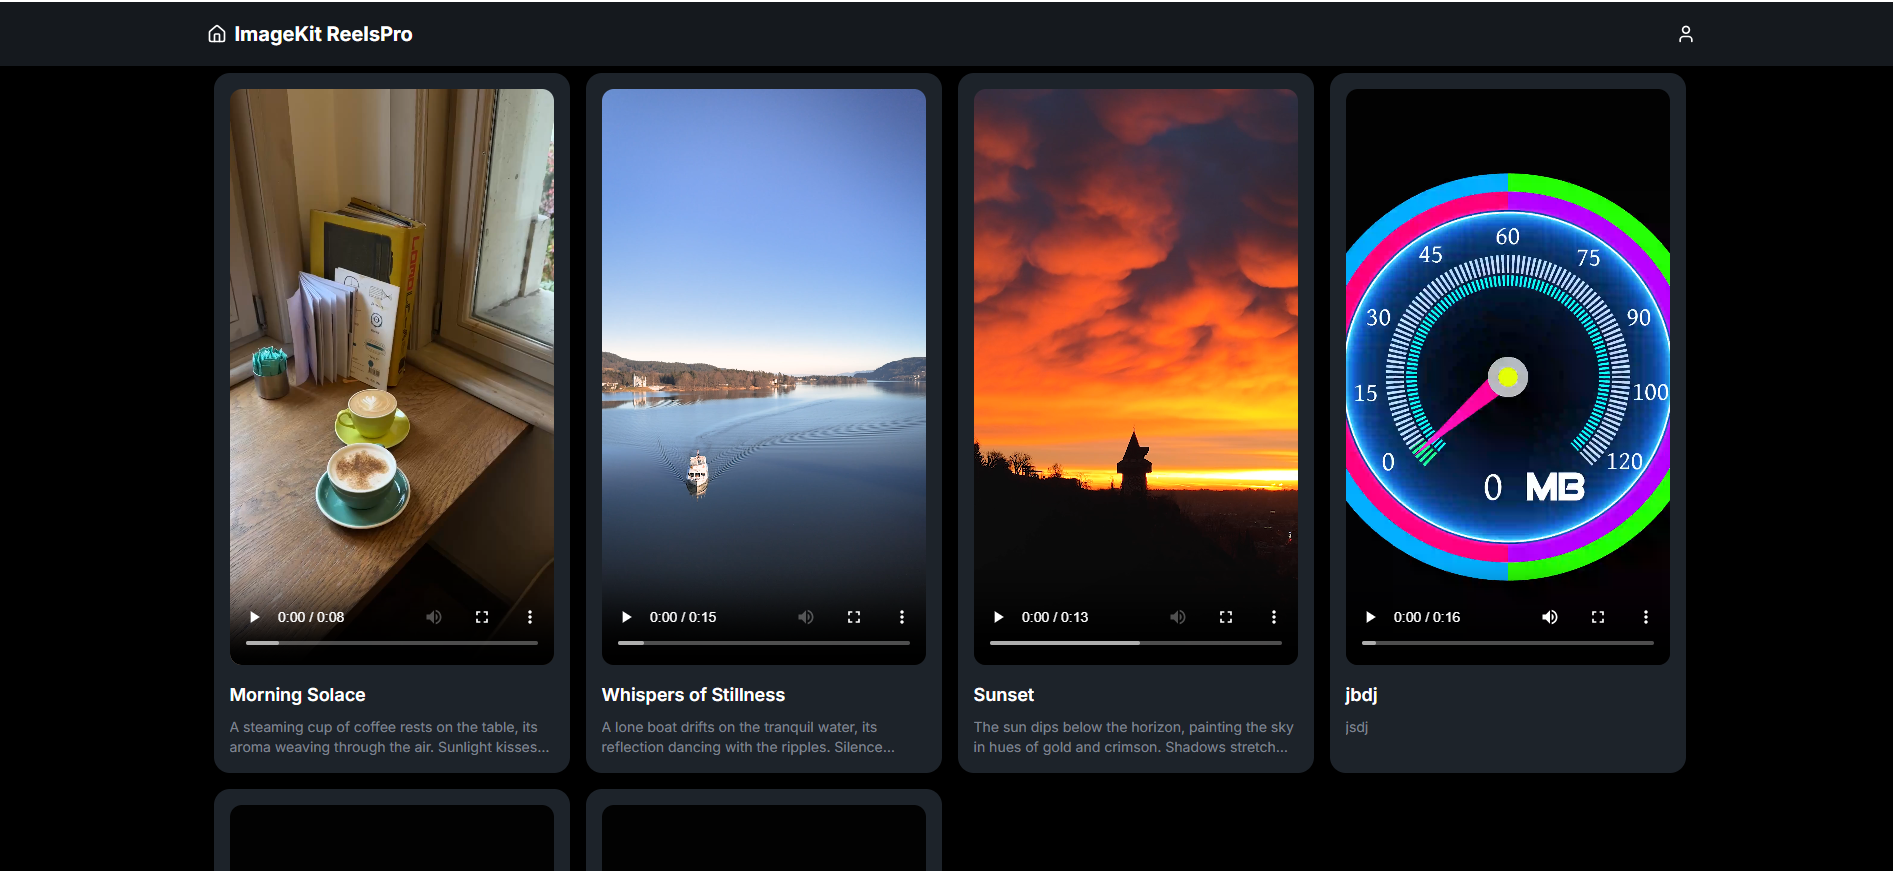
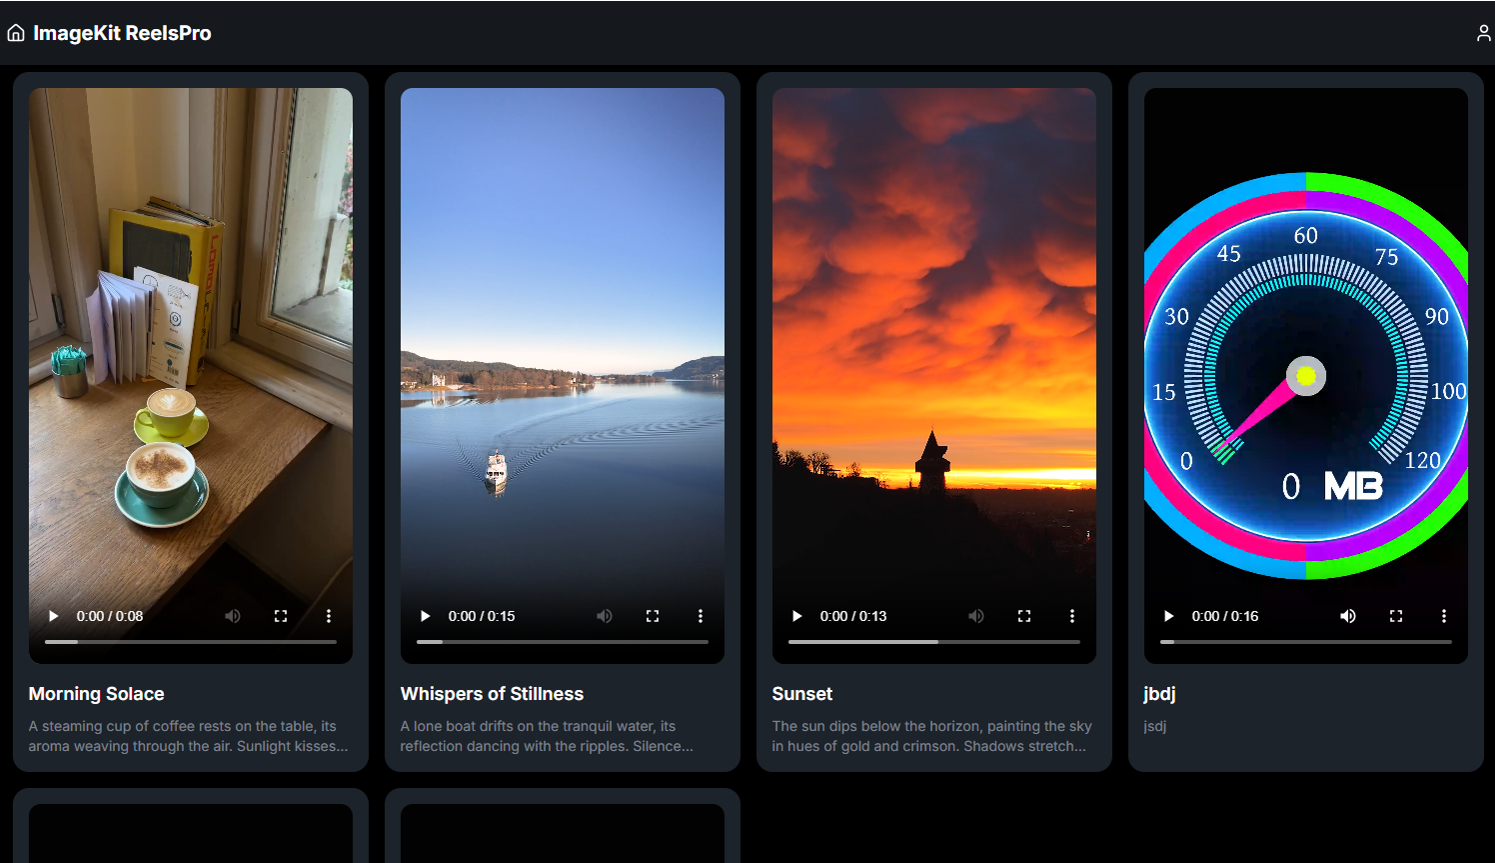
Change UI of  Project Page

diff --git a/src/app/projects/page.tsx b/src/app/projects/page.tsx
@@ -33,10 +33,10 @@ function Project() {
                 key={project.title}
                 delay={BLUR_FADE_DELAY * 12 + id * 0.05}
               >
-                <ShineBorder
+                {/* <ShineBorder
                   className="relative flex h-full w-full flex-col items-center justify-center overflow-hidden rounded-lg border bg-background md:shadow-xl"
                   color={["#F3FC91", "#3DDFFC", "#FF0095"]}
-                >
+                > */}
                   <ProjectCard
                     href={project.href}
                     title={project.title}
@@ -46,7 +46,7 @@ function Project() {
                     image={project.image}
                     links={project.links}
                   />
-                </ShineBorder>
+                {/* </ShineBorder> */}
               </BlurFade>
             ))}
           </div>

diff --git a/src/data/resume_contents.tsx b/src/data/resume_contents.tsx
@@ -137,7 +137,7 @@ export const DATA = {
       links: [
         {
           type: "Website",
-          href: "chess-against-ai.vercel.app/",
+          href: "https://chess-against-ai.vercel.app/",
           icon: <Icons.globe className="size-3" />,
         },
         {
@@ -168,7 +168,7 @@ export const DATA = {
       links: [
         {
           type: "Website",
-          href: "reels-pro-social-media.vercel.app/",
+          href: "https://reels-pro-social-media.vercel.app/",
           icon: <Icons.globe className="size-3" />,
         },
         {
